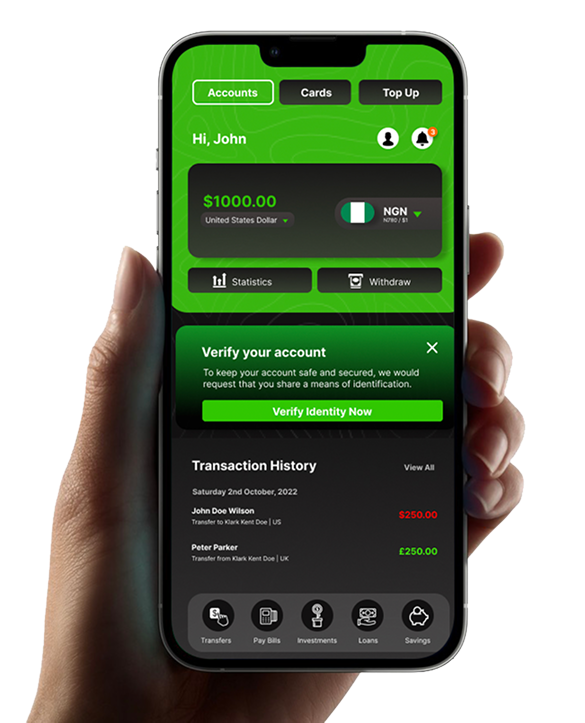
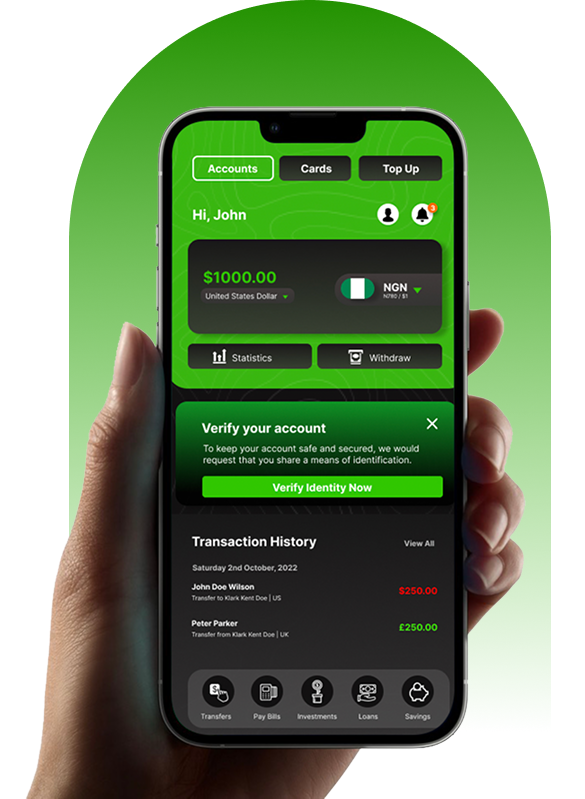
update

diff --git a/css/style.css b/css/style.css
@@ -86,7 +86,7 @@ body
     background-position: center;
     background-size: cover;
     width: 100%;
-    height: 1000px;
+    height: 977px;
 }
 .nav
 {
@@ -121,6 +121,7 @@ body
 {
     display: flex;
     flex-direction: column;
+    padding-top: 20px;
 }
 .block-1_text
 {
@@ -186,4 +187,79 @@ body
 .box-img
 {
     width: 260px;
+}
+.block-2
+{
+    display: flex;
+    flex-direction: column;
+    padding-top: 105px;
+}
+.block-2_title
+{
+    font-size: 40px;
+    font-weight: 500;
+    color: var(--White);
+    width: 405px;
+    margin-bottom: 16px;
+}
+.block-2_text
+{
+    color: var(--White);
+    width: 440px;
+    margin-bottom: 45px;
+}
+/* ============================ Verify =================== */
+.section-verify
+{
+    background: linear-gradient(#141313, #195206);
+}
+.verify-block
+{
+    display: flex;
+    justify-content: space-around;
+    justify-content: center;
+    align-items: center;
+}
+.verify-img
+{
+    width: 950px;
+}
+.verify-title
+{
+    font-size: 70px;
+    font-weight: 500;
+    width: 704px;
+    color: var(--White);
+    margin-bottom: 20px;
+}
+.verify-text
+{
+    color: var(--White);
+    width: 415px;
+    margin-bottom: 50px;
+}
+.verify-button
+{
+    display: flex;
+    gap: 0 30px;
+}
+.veryfi-btn
+{
+    font-size: 26px;
+    background-color: var(--MuslimGreen);
+    color: var(--White);
+    border-radius: 7px;
+    padding: 15px 60px;
+}
+.verify_btn
+{
+    font-size: 26px;
+    color: var(--White);
+    border: 5px solid var(--White);
+    border-radius: 7px;
+    padding: 15px 12px;
+}
+.btn
+{
+    padding: 15px 38px;
 }

diff --git a/index.html b/index.html
@@ -68,9 +68,23 @@
         </div>
     </header>
     <main class="main">
-        <section class="section-platform">
+        <section class="section-verify">
             <div class="container">
-                
+                <div class="verify-block">
+                    <img class="verify-img" src="./img/verify-img.png" alt="">
+                    <div class="verify-box">
+                        <h2 class="verify-title">Verify your account</h2>
+                        <p class="verify-text">
+                            To keep your account safe and secured, 
+                            we would request that you share a means of identification.
+                        </p>
+                        <div class="verify-button">
+                            <button class="veryfi-btn" type="submit">NIN</button>
+                            <button class="verify_btn btn" type="submit">Passport</button>
+                            <button class="verify_btn" type="submit">Residence Permit</button>
+                        </div>
+                    </div>
+                </div>
             </div>
         </section>
     </main>
